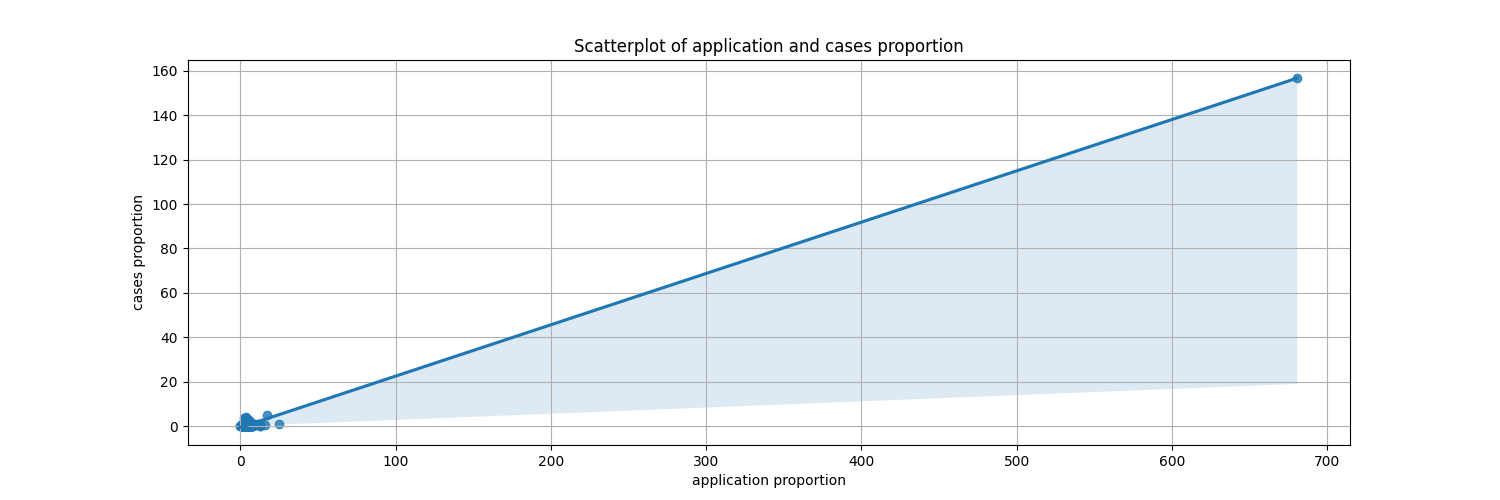
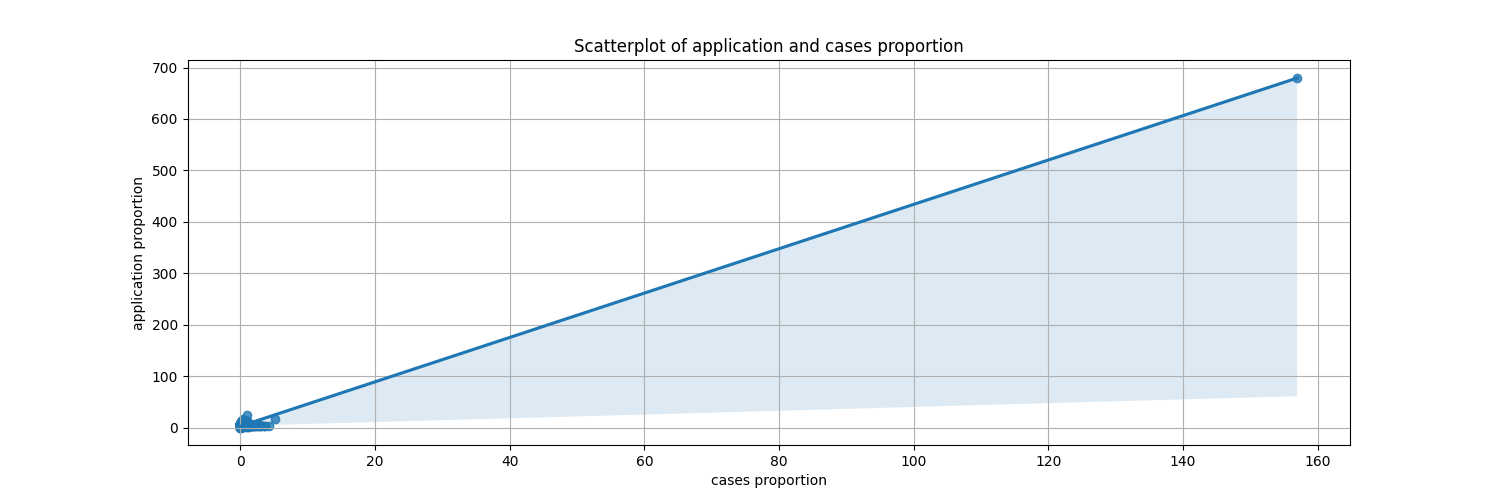
updated the functions

diff --git a/assignment2.py b/assignment2.py
@@ -199,9 +199,10 @@ def application_vs_cases():
     combination_with_outlier['cases proportion'] = (combination_with_outlier['cases']/combination_with_outlier['population'])*100
     combination_with_outlier['application proportion'] = (combination_with_outlier['application count']/combination_with_outlier['population'])*100
     combination_with_outlier.replace([np.nan, np.inf, -np.inf], 0, inplace = True)
+    print(combination_with_outlier)
     plt.figure(figsize=(15,5))
     plt.grid(True)
-    sns.regplot(x='application proportion', y='cases proportion', data=combination_with_outlier, robust=True)
+    sns.regplot(x='cases proportion', y='application proportion', data=combination_with_outlier, robust=True)
     plt.title('Scatterplot of application and cases proportion')
     plt.savefig("scatterplot_cases_and_application_with_outlier.png")
     
@@ -220,8 +221,10 @@ def regression_results(data_used):
 
 def descriptive_statistics():
     '''Returning descriptive statistics and correlation of dataframe grouped by suburbs'''
+    print("Descriptive statistics of data with outlier")
+    print(combination.describe())
     desc_stat = sort_by_postal_name.describe
-    correlation = sort_by_postal_name.corr()
+    correlation = combination.corr()
     #printing results
     print("Descriptive statistics of dataframe sort_by_postal_name:")
     print(desc_stat)
